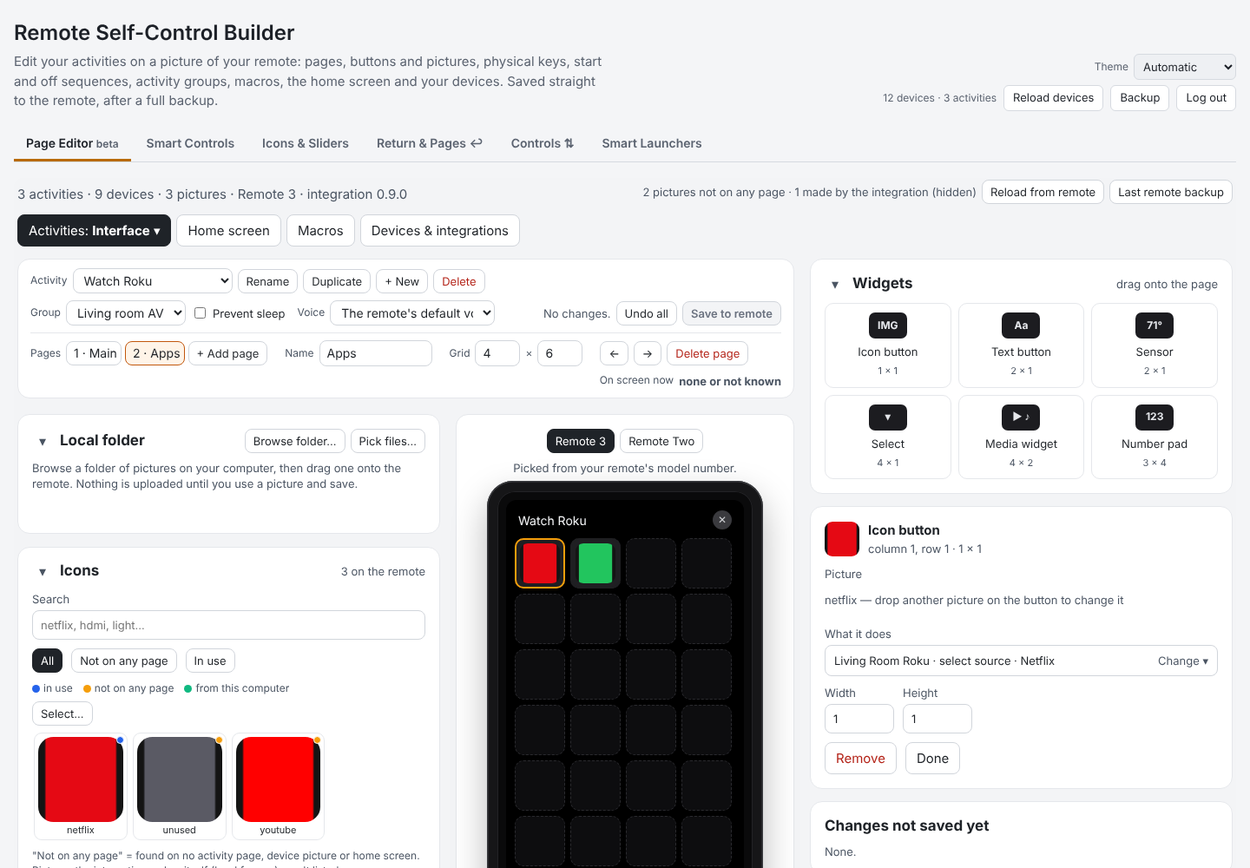
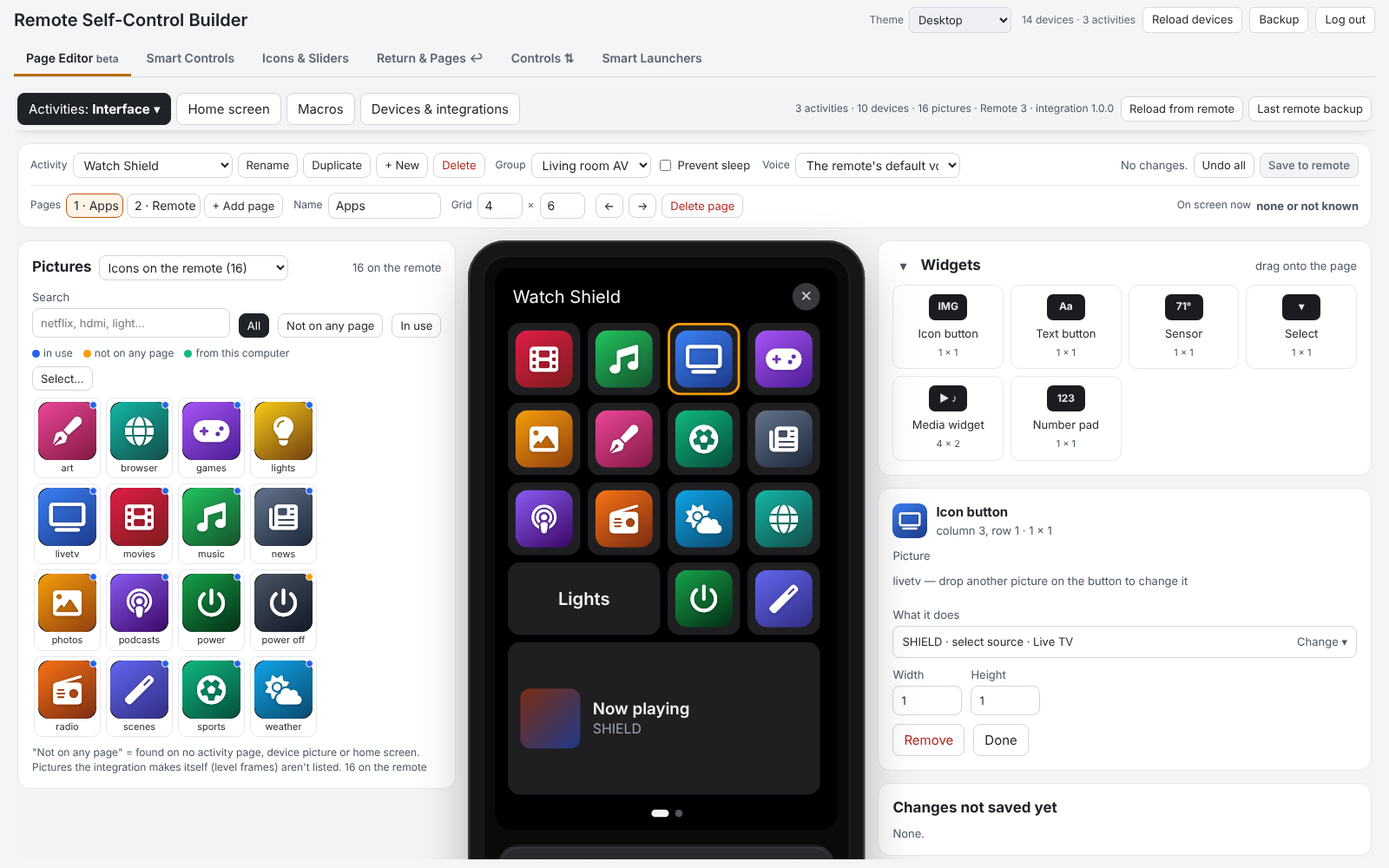
README rewritten for 1.0.0: feature tour with new Page Editor pictures
Claude-Session: https://claude.ai/code/session_016NWB9HcLxpD9Fz1hEPwFis

diff --git a/README.md b/README.md
@@ -2,68 +2,168 @@
 
 [![test](https://github.com/Sat32blk/uc-remote-self-control/actions/workflows/test.yml/badge.svg)](https://github.com/Sat32blk/uc-remote-self-control/actions/workflows/test.yml)
 
-A custom integration for the **Unfolded Circle Remote 3** (and Remote Two) that runs on the remote itself and lets the remote control **itself**:
+A custom integration for the **Unfolded Circle Remote 3** (and Remote Two) that runs on the remote itself. It started as a way to change the button backlight and the screen brightness from a button or a macro. It has grown into a second way to set up your remote: a **Page Editor** that edits activities, pages, buttons, sequences, macros, the home screen and devices on a picture of your remote, plus things the remote can't do on its own, like buttons with if / else logic, icons that follow a device's state, sliders for any number, and a ↩ button back to the previous activity.
 
-- **Page Editor (beta):** edit your activities on a picture of your Remote 3 or Remote Two: drag pictures and widgets onto pages, set what buttons and physical keys do, start and off sequences with a guided setup for new devices, activity groups, macros, the home screen and your devices. Saved straight to the remote, after a full remote backup.
-- **Remote settings as entities:** button backlight level and color, display brightness and timeout, sleep timeout, wake sensitivity, Wake on LAN, sound effects and volume, haptics. Use them in activities, macros, pages, buttons and the touch slider.
-- **Smart Controls:** buttons with if / else logic ("if the receiver is on, turn *it* up, otherwise the TV"), built in a browser page the integration serves itself.
-- **State icons:** make a button on a page change its icon with a device's state, like a green power icon while the receiver is on. Pick the button, drop in an image per state.
-- **Sliders & quick menus:** turn any number on your devices (receiver volume, a light, a blind) into a slider with the remote's own slider pop-up, and make pop-up menus whose choices run Smart Control steps (inputs, sound modes, scenes).
-- **Return to previous activity:** a ↩ button (on screen or a physical button) that always takes you back to the activity you came from, optionally turning off the one you leave.
-- **Controls:** press a switch and the volume rocker and touch slider change something else for a few seconds (a light, a tone control, the screen brightness), with the remote's own volume pop-up.
-- **Level pictures:** a button that shows a device's level (bar, gauge, battery, …, 16 designs) in any color, even changing color with the value.
-- **Device states (live):** see every value your devices (and the remote itself, including its battery) report, and click them into conditions and state icons.
-- **Page jumps:** a smart control can jump to any page of the activity you're in, and **start pages** pick the page an activity opens on, depending on your devices.
-- **Backup and restore:** everything you set up, with its pictures, in one file.
+Everything runs on the remote and is set up in a browser page the integration serves itself: no PC, server or cloud needed.
+
+![The Page Editor: pictures on the left, the remote in the middle, what the selected button does on the right](docs/images/page-editor.png)
 
 > [!WARNING]
-> **Beta.** Tested on one Remote 3 so far. The integration changes your remote's settings, activities, pages and button mappings. **Back up your remote's configuration in the web configurator before installing**, so you can restore it if something goes wrong.
+> **Back up your remote's configuration in the web configurator before installing.** The integration changes your remote's settings, activities, pages, button mappings and more. The Page Editor also saves a full remote backup before its first change of a visit, but keep your own. Tested on one Remote 3 so far.
 
-> Community project, not affiliated with Unfolded Circle. MIT licensed. It changes the remote's settings through the remote's local Core REST API.
-
-![The ↩ button and a Smart Controls page on the remote (illustration)](docs/images/remote-screens.png)
-
-![Controls with the remote's own pop-up, and a level picture on a button (illustration)](docs/images/remote-controls.png)
-
-<p align="center"><img src="docs/images/state-icon-demo.gif" alt="State icon: the power button turns green when the receiver is on" width="300"></p>
-
-*Illustrations of what the integration adds to your activities, drawn after a Remote 3 screen. The screenshots further down are of the real builder page, running against a test remote with example devices.*
+> Community project, not affiliated with Unfolded Circle. MIT licensed. It works through the remote's local Core REST API.
 
 ## Contents
 
+- [Features](#features)
+  - [Page Editor](#page-editor): [activities and pages](#activities-and-pages) · [start and stop, with a guided setup](#start-and-stop-with-a-guided-setup) · [activity groups](#activity-groups) · [home screen](#home-screen) · [macros](#macros) · [devices, integrations and app links](#devices-integrations-and-app-links) · [themes](#themes) · [safe saving](#safe-saving)
+  - [Smart Controls](#smart-controls) · [State icons](#state-icons) · [Sliders, quick menus and level pictures](#sliders-quick-menus-and-level-pictures) · [Controls](#controls) · [Return ↩ and page jumps](#return--and-page-jumps) · [Smart Launchers](#smart-launchers) · [The remote's own settings](#the-remotes-own-settings) · [Device states](#device-states) · [Backup, restore and Integration Manager](#backup-restore-and-integration-manager)
 - [Install](#install)
-- [Walkthroughs](#walkthroughs)
-  1. [Your first Smart Control (2 minutes)](#1-your-first-smart-control-2-minutes)
-  2. [Smart volume: receiver if it's on, otherwise the TV](#2-smart-volume-receiver-if-its-on-otherwise-the-tv)
-  3. [Switch input, turning the receiver on first](#3-switch-input-turning-the-receiver-on-first)
-  4. [Night Mode on a long press](#4-night-mode-on-a-long-press)
-  5. [Backlight by time of day](#5-backlight-by-time-of-day)
-  6. [Return to the previous activity](#6-return-to-the-previous-activity)
-  7. [Display brightness on the touch slider](#7-display-brightness-on-the-touch-slider)
-  8. [A power icon that turns green when the receiver is on](#8-a-power-icon-that-turns-green-when-the-receiver-is-on)
-  9. [A receiver volume slider](#9-a-receiver-volume-slider)
-  10. [A pop-up menu for the receiver's inputs](#10-a-pop-up-menu-for-the-receivers-inputs)
-  11. [The volume keys and touch slider for a light (Controls)](#11-the-volume-keys-and-touch-slider-for-a-light-controls)
-  12. [Back up everything](#12-back-up-everything)
-  13. [Jump to a page, and start pages](#13-jump-to-a-page-and-start-pages)
-  14. [One button for whichever activity fits (smart launchers)](#14-one-button-for-whichever-activity-fits-smart-launchers)
-  15. [Edit your activities on a picture of your remote (Page Editor)](#15-edit-your-activities-on-a-picture-of-your-remote-page-editor)
-- [The builder](#the-builder)
-- [Entities](#entities)
-- [Rules reference](#rules-reference)
+- [Walkthroughs](#walkthroughs): 15 step-by-step examples, from your first Smart Control to the Page Editor
+- [The builder](#the-builder) · [Entities](#entities) · [Rules reference](#rules-reference)
 - [Security](#security) · [Configuration](#configuration) · [Logs and removal](#logs-and-removal) · [Development](#development) · [Changes](#changes) · [Support](#support)
+
+## Features
+
+### Page Editor
+
+The builder's first tab shows your Remote 3 or Remote Two (picked from the remote's model number) and lets you edit what's on it. Nothing is written until you press a save button, and the integration saves a full remote backup before the first change of each visit (**Last remote backup** downloads it).
+
+#### Activities and pages
+
+- **Drag and drop.** The **Pictures** window sits beside the remote's screen, with as many pictures per row as the page has columns, each the size it will have on a button. Pick **Icons on the remote**, **Built-in icons** (the remote's own, drawn as on the remote), **Channel icons** or **Local folder** (pictures on your computer, shrunk and uploaded when you save).
+- **Widgets:** text button, sensor, select, media widget and number pad.
+- **What it does:** click a button and pick a device (the activity's own come first), then its command, or search with a few words (*shield movies*). **Custom value** sends a typed value such as an app link; **Not added yet** adds a device your integrations offer straight from there.
+- **Physical keys and the touch slider:** click them on the drawing to set short and long presses.
+- **Pages:** add, rename, change the grid, move, delete. **Activities:** rename, duplicate, delete or make a new one; activity group, prevent sleep and voice assistant.
+
+![What it does: the SHIELD's commands, including app links, for the selected button](docs/images/page-editor-what-it-does.png)
+
+<img src="docs/images/page-editor-built-in-icons.png" alt="Built-in icons in the Pictures window, next to the remote's screen" width="640">
+
+#### Start and stop, with a guided setup
+
+The start and off sequences with readiness check and what happens when a command fails, and the devices in the activity.
+
+When you give a button a command of a device that isn't in the sequences yet (or use **+ Add a device…**), a short setup asks what kind of device it is (display, AV receiver, streaming device, amp / subwoofer, Home Assistant, other), then a few questions for that kind (input, app, turn off at the end). Its steps go into the sequences in signal-flow order with recommended waits, and your other steps aren't moved:
+
+- **on:** display → 1.5 s → sources → 2 s → receiver + input → 3 s → amps
+- **off:** amps → 1 s → receiver → 1 s → display → 0.5 s → sources
+
+![Start and off sequences](docs/images/page-editor-start-stop.png)
+
+| What kind of device is it? | Then a few questions for that kind |
+|---|---|
+| <img src="docs/images/page-editor-guided-setup.png" alt="Guided setup, step 1" width="480"> | <img src="docs/images/page-editor-guided-setup-2.png" alt="Guided setup, step 2" width="480"> |
+
+#### Activity groups
+
+What switching between activities of a group turns off, as one plain sentence, with the steps and a grid of every switch in the group.
+
+![Activity groups](docs/images/page-editor-activity-groups.png)
+
+#### Home screen
+
+Your home pages with their tiles and background pictures (the remote's own, or one from your computer). Drag activities, devices and groups into a page.
+
+![Home screen](docs/images/page-editor-home-screen.png)
+
+#### Macros
+
+Steps with a check that each device answers, duplicate, delete (it says where the macro is used first) and **Try it now**.
+
+![Macros](docs/images/page-editor-macros.png)
+
+#### Devices, integrations and app links
+
+Per integration: what's on the remote and what it offers to add (**Add** adds it at once), remove, rename, enable / disable and reconnect. **+ Add an integration** opens [Integration Manager](https://github.com/JackJPowell/uc-intg-manager) if you have it, otherwise the web configurator.
+
+**App links** (Android TV): load a text file with one `market://launch?id=… = Name` per line. The apps show by name in What it does, the sequences and the guided setup ("select source · Tivimate"), and buttons that already use a link show its name. Apps the device already lists aren't added twice.
+
+![Devices and integrations, with app links](docs/images/page-editor-devices.png)
+
+#### Themes
+
+A **Theme** picker for the whole builder: Automatic, Desktop, Dark mode, Remote style, Midnight blue, High contrast.
+
+![Dark mode, Remote style and Midnight blue](docs/images/page-editor-themes.png)
+
+#### Safe saving
+
+- **Pages are read again before saving.** A button you didn't touch keeps what the remote has now, so a picture the integration (state icons, level pictures) or the web configurator changed meanwhile isn't overwritten. Only changed pages, keys and settings are written.
+- **The activity on the remote's screen** is saved once you leave it (changing a page you're looking at would jump to page 1); **Save pages now anyway** doesn't wait.
+- If a picture from your computer can't be uploaded, nothing is saved.
+- Activities made by an integration, and Smart Launcher copies, are locked (🔒).
+- The editor reaches the remote only through the builder's login, and only for what it needs: API keys, system commands (reboot, update, power), the remote's settings and deleting whole collections are refused.
+
+### Smart Controls
+
+Buttons with **if / else if / otherwise** logic, built by picking from your own devices, activities and the remote's settings: "if the receiver is on, turn *it* up, otherwise the TV". Conditions on device states, the activity that's on, the time, the remote's settings and battery, and remembered values. Steps can run commands (IR too), wait, **wait until** a device is ready, remember and restore settings, and **jump to a page**. Templates for Night Mode, Quiet Mode, smart volume, input with wait and more; **Test** runs one on the remote and shows what it did. [Walkthroughs 1–5](#walkthroughs)
+
+![A Smart Control in the builder](docs/images/builder-overview.png)
+
+### State icons
+
+A button on a page that changes its picture or label with a device's state, like a green power icon while the receiver is on. Pick the button on a drawing of the page, drop in a picture per state. [Walkthrough 8](#8-a-power-icon-that-turns-green-when-the-receiver-is-on)
+
+<p align="center"><img src="docs/images/state-icon-demo.gif" alt="State icon: the power button turns green when the receiver is on" width="300"></p>
+
+### Sliders, quick menus and level pictures
+
+- **Sliders:** any number on a device (receiver volume, a light, a blind, even IR up / down) as a slider with the remote's own slider pop-up and the Remote 3 touch slider.
+- **Quick menus:** a pop-up list whose choices run steps: inputs, sound modes, scenes. Build one from a device's input list in one click.
+- **Level pictures:** a button that shows a level in 16 designs (bar, arc gauge, battery, needle, …), in any color, changing color with the value, always or only for a few seconds after it changes. 12 tile icons for sliders and menus.
+
+[Walkthroughs 9–10](#9-a-receiver-volume-slider)
+
+![The 16 level pictures, colors by value and the 12 tile icons](docs/images/slider-graphics.png)
+
+### Controls
+
+Press a switch and the volume rocker and touch slider change something else for a moment (a light, a tone control, the screen or backlight brightness, one of your sliders), with the remote's own volume pop-up. Per activity, what they do when no control is on; optionally **borrow** the rocker from your TV only while a control is on. [Walkthrough 11](#11-the-volume-keys-and-touch-slider-for-a-light-controls)
+
+![Controls with the remote's own pop-up, and a level picture on a button (illustration)](docs/images/remote-controls.png)
+
+### Return ↩ and page jumps
+
+- **↩ Return to the previous activity:** an on-screen button (text, arrow or your own picture) and/or a physical button that always takes you back to the activity you came from, optionally turning off the one you leave. [Walkthrough 6](#6-return-to-the-previous-activity)
+- **Go to page:** a step that jumps to a page of the activity you're in, with logic ("if the Shield is playing → Apps, otherwise → Remote"). **Start pages:** per activity, the page it opens on depending on your devices. [Walkthrough 13](#13-jump-to-a-page-and-start-pages)
+
+![The ↩ button and a Smart Controls page on the remote (illustration)](docs/images/remote-screens.png)
+
+### Smart Launchers
+
+One button (on a page, a physical button or the home screen) that opens the activity your conditions pick: *if the Shield is on → Watch ShieldTV, otherwise → Watch RokuTV*, optionally with extra steps once it has started. [Walkthrough 14](#14-one-button-for-whichever-activity-fits-smart-launchers)
+
+### The remote's own settings
+
+Button backlight level and color, display brightness and timeout, auto brightness, sleep timeout, wake sensitivity, Wake on LAN, sound effects and volume, and haptics, as entities you can use in activities, macros, pages, buttons and on the touch slider. See [Entities](#entities).
+
+### Device states
+
+A live panel with every value your devices (and the remote itself, battery included) report, with all values seen so far. Click a value to put it into a condition, a state icon or a slider.
+
+### Backup, restore and Integration Manager
+
+- **Builder → Backup:** one file with everything you set up, plus the pictures it uses. Restore picks the parts and checks them all before changing anything.
+- **Reconfigure → Back up settings / Restore settings from a backup:** the same settings as text. [Integration Manager](https://github.com/JackJPowell/uc-intg-manager)'s **Backup Config** uses this, so it can keep your settings with its other backups.
+- **Remove everything** puts back what the integration changed on your remote before you uninstall it.
+
+[Walkthrough 12](#12-back-up-everything)
 
 ## Install
 
 1. **Back up your remote** in the web configurator and download the backup.
-1. Download `uc-intg-self-control-<version>.tar.gz` from the [latest release](https://github.com/Sat32blk/uc-remote-self-control/releases/latest).
-2. Web configurator → **Integrations → Add new → Install custom** → choose the file.
+2. Install the integration:
+   - with [Integration Manager](https://github.com/JackJPowell/uc-intg-manager): find **Remote Self-Control** in its list of available integrations (once it has been added there) and install it; or
+   - download `uc-intg-self-control-<version>.tar.gz` from the [latest release](https://github.com/Sat32blk/uc-remote-self-control/releases/latest), then web configurator → **Integrations → Add new → Install custom** → choose the file.
 3. Start the setup for **Remote Self-Control**. The first screen is information only. On the second, enter the **web-configurator PIN** and leave the address at `127.0.0.1`.
    - The integration uses the PIN once to create an API key named "Self-Control <date>" and stores only that key.
    - If setup fails with a connection error, run it again with the remote's own IP address.
-4. Add the entities you want to the integration, then use them in activities, macros or pages.
+4. Open the builder at `http://<remote-name>.local:10123/` (the exact address is in Integrations → Remote Self-Control → Configure) and log in with the same PIN. The **Page Editor** opens first.
+5. For the remote settings, Smart Controls, sliders and so on: add the entities you want to the integration, then use them in activities, macros or pages.
 
-To update, first save a **Backup** in the builder (walkthrough 12), then use Install custom with **Update existing driver** checked. Your Smart Controls and settings are kept. No restart of the remote is needed.
+To update, first save a **Backup** in the builder (walkthrough 12), then use Install custom with **Update existing driver** checked (or update in Integration Manager). Your settings are kept. No restart of the remote is needed.
 
 ## Walkthroughs
 
@@ -281,25 +381,13 @@ Why it works this way: the remote only switches to an activity's screen when the
 
 ### 15. Edit your activities on a picture of your remote (Page Editor)
 
-*Beta. It changes your activities, macros, home screen and devices directly. Before the first change of a visit, the integration saves a full backup of the remote (the same file as the web configurator's backup) and keeps the newest two on the remote: **Last remote backup** downloads it. Still keep your own backup from the web configurator.*
+1. Builder → **Page Editor** (the first tab) → **Activities ▾ → Interface**, and pick the activity and page at the top.
+2. In **Pictures**, choose where the pictures come from, then drag one onto the remote's screen (or click it, then a spot). Drag widgets from the right.
+3. Click the new button, then **What it does** → pick the device and its command. If that device isn't in the activity's start and off sequences yet, the **guided setup** opens: answer its few questions and its steps are added in the right order.
+4. Click a physical key or the touch slider on the drawing to set them too.
+5. **Save to remote**. If that activity is on the remote's screen right now, its pages are saved once you leave it.
 
-![Page Editor](docs/images/page-editor.png)
-
-Builder → **Page Editor** (the first tab). Nothing is written until you click a save button.
-
-- **Activities ▾ → Interface:** pick the activity and page. In **Pictures**, choose Icons on the remote, Built-in icons (the remote's own), Channel icons or Local folder (pictures on your computer, uploaded when you save), then drag one onto the screen, or click it and then a spot. Drag widgets (text button, sensor, select, media widget, number pad) from the right. Click a button to set **What it does**: pick a device (the activity's own come first) and then its command, or search with a few words (*roku netflix*); **Custom value** sends a typed source such as an app link; **Not added yet** adds a device your integrations offer straight from there; narrow it by kind (devices, activities, macros, this integration) or device. Click a **physical key** or the **touch slider** on the drawing to set them. Rename, duplicate, delete or make a new activity, set its activity group, prevent sleep and voice assistant in the top bar. Pages: add, rename, grid size, move, delete. **Save to remote**.
-- **Activities ▾ → Start/Stop:** the start and off sequences, readiness check and what happens when a command fails. **+ Add a device…**, or giving a button a command of a device that isn't in the sequences yet, opens a short **setup**: what kind of device it is (display, AV receiver, streaming device / player, amp / subwoofer, Home Assistant, other), then a few questions for that kind (input, app, turn off at the end), then a preview. Its steps go into the sequences in signal-flow order with recommended waits: on = display → 1.5 s → sources → 2 s → receiver + input → 3 s → amps; off = amps → 1 s → receiver → 1 s → display → 0.5 s → sources. Your other steps aren't moved.
-- **Activities ▾ → Activity groups:** what switching between activities of a group turns off, as one sentence, with the steps and a grid of every switch.
-- **Home screen:** your home pages ("groups") with their tiles and background pictures (the remote's own, or one from your computer).
-- **Macros:** steps, duplicate, delete (with where it's used), **Try it now**.
-- **Devices & integrations:** per integration what's on the remote and what it offers to add; Android TV integrations also have **App links** (load a text file with one `market://launch?id=… = Name` per line, and the apps show by name when you pick commands) (**Add** on a device adds it at once; no save needed); add several, remove (asks again when a device is used), rename, enable / disable, reconnect. Setting up a new integration still happens in the web configurator.
-
-Good to know:
-
-- **Saving re-reads the pages first.** A button you didn't touch keeps whatever the remote has now, so a picture the integration (state icons, level pictures) or the web configurator changed meanwhile isn't overwritten. Only changed pages, keys and settings are written.
-- **The activity on the remote's screen:** its pages are saved once you leave it (changing a page you're looking at would jump to page 1). Keys, slider and settings save at once; **Save pages now anyway** doesn't wait.
-- Activities made by an integration are shown with 🔒 and can't be edited. The integration's own level-picture frames aren't listed in Icons.
-- The **Theme** picker (top right of the builder) applies to every tab: Automatic, Desktop, Dark mode, Remote style, Midnight blue, High contrast.
+See [Page Editor](#page-editor) for everything else it does.
 
 ## The builder
 
@@ -427,7 +515,7 @@ For lists, `option` can also be `next` / `previous` (wraps around) or `up` / `do
 | `UC_SELF_RETURN_POLL_MS` | `2000` | How often activity states (↩ button), state-icon devices, slider values and menu conditions are read |
 | `UC_SELF_SLIDER_HOLD_MS` | `3000` | After you move a slider, device reports are ignored this long so a slow device can't jump it back |
 
-Files in the integration's config folder: `self_control.json` (address + API key), `smart_rules.json` (your rules; absent = defaults), `smart_vars.json` (remembered values), `return.json` (↩ settings and activity history), `state_icons.json` (state icons and each button's default look), `sliders_menus.json` (sliders, quick menus and their last values), `controls.json` (Controls), `states_seen.json` (values seen in the device states panel). The builder's **Backup** saves all of these except the login and the caches.
+Files in the integration's config folder: `self_control.json` (address + API key), `smart_rules.json` (your rules; absent = defaults), `smart_vars.json` (remembered values), `return.json` (↩ settings and activity history), `state_icons.json` (state icons and each button's default look), `sliders_menus.json` (sliders, quick menus and their last values), `controls.json` (Controls), `states_seen.json` (values seen in the device states panel). The Page Editor adds `app_links.json` (Android TV app links) and keeps its remote backups on the remote (the newest two). The builder's **Backup** saves all of these except the login and the caches.
 
 ## Logs and removal
 
@@ -477,7 +565,9 @@ Built on the [Integration API](https://github.com/unfoldedcircle/integration-nod
 
 ## Changes
 
-- **1.0.0:** first 1.0 release: everything up to 0.9.10, including the **Page Editor** (0.9.x) and backups with Integration Manager.
+- **1.0.0:** first 1.0 release, with everything from 0.9.0–0.9.10: the **Page Editor** (activities, pages, pictures including the remote's built-in icons, widgets, keys, start and off sequences with a guided setup, activity groups, home screen, macros, devices and integrations, Android TV app links), the theme picker, and backups with [Integration Manager](https://github.com/JackJPowell/uc-intg-manager) (from 0.8.8). New README with pictures of every part.
+<details><summary>Earlier versions</summary>
+
 - **0.9.10:** Page Editor: the Pictures window shows as many pictures per row as the page has columns, and sits beside the remote's screen (the activity and page bar runs across the top), for easy drag and drop.
 - **0.9.9:** Page Editor: the remote is drawn bigger (up to 1.7× the window height; the page scrolls, and the remote stays in view only when it fits); the side windows are a little narrower; pictures in the Pictures window are the same size as on the remote's buttons.
 - **0.9.8:** includes 0.8.8's backups with [Integration Manager](https://github.com/JackJPowell/uc-intg-manager): its **Backup Config** saves your settings (now with the Page Editor's app links) as text, and **Reconfigure → Restore settings from a backup** puts them back. Both choices are also in the integration's own setup.
@@ -526,6 +616,8 @@ Built on the [Integration API](https://github.com/unfoldedcircle/integration-nod
 - **0.3.0:** Smart Controls are generic: starts with one Smart Test Button; remote-only templates; builder page served by the integration with PIN login, device list, templates, save and test; remember / restore settings; next / previous / up / down; IR simple commands.
 - 0.2.0: Smart Buttons: conditional rules, last-result sensor, rule editor in the setup screen.
 - 0.1.x: remote settings entities, grouped into Remote Display / Remote Buttons / Remote Settings; macro-friendly selects.
+
+</details>
 
 ## Support
 
